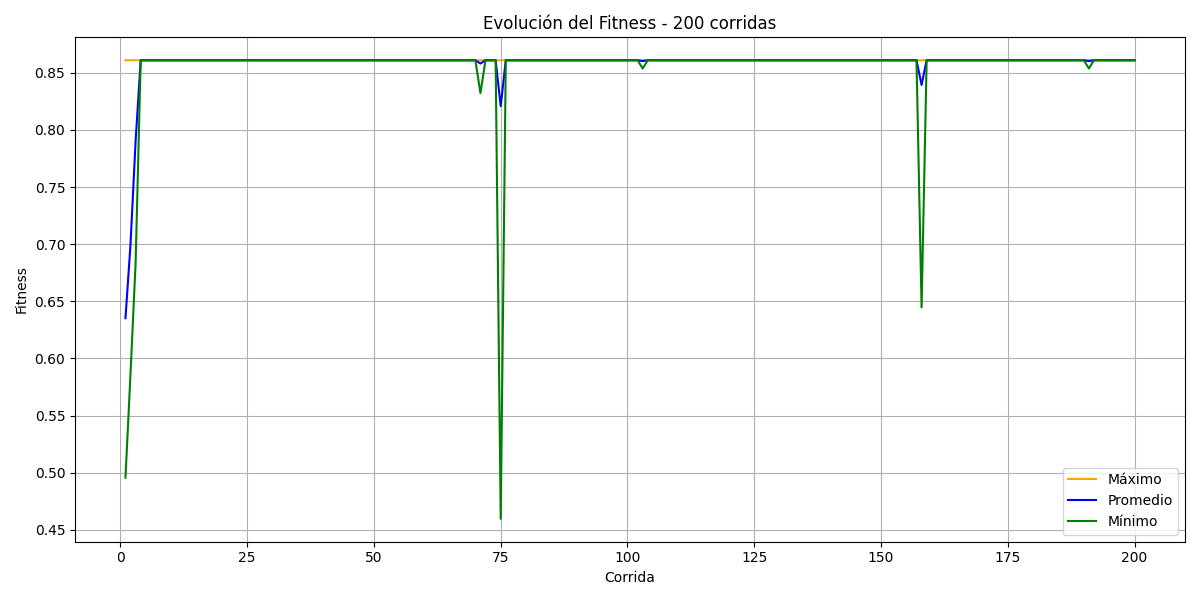
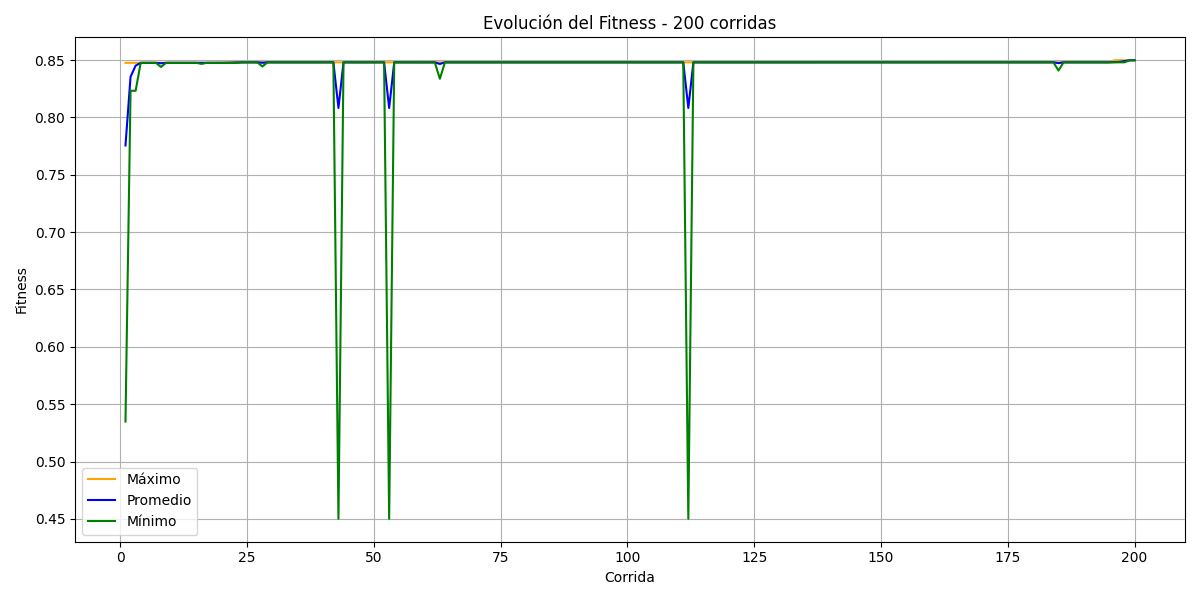
Creación de resultados para el cambio en el crossover

diff --git a/tp1/ag_canonico.py b/tp1/ag_canonico.py
@@ -4,12 +4,12 @@ import matplotlib.pyplot as plt
 import pandas as pd
 import argparse
 import os
-
+from openpyxl.workbook import Workbook
 # Parámetros generales
 BIT_LENGTH = 30
 POPULATION_SIZE = 10
 CROSSOVER_PROB = 0.75
-MUTATION_PROB = 0.01
+MUTATION_PROB = 0.05
 MAX_VALUE = 2**BIT_LENGTH - 1
 COEF = MAX_VALUE
 
